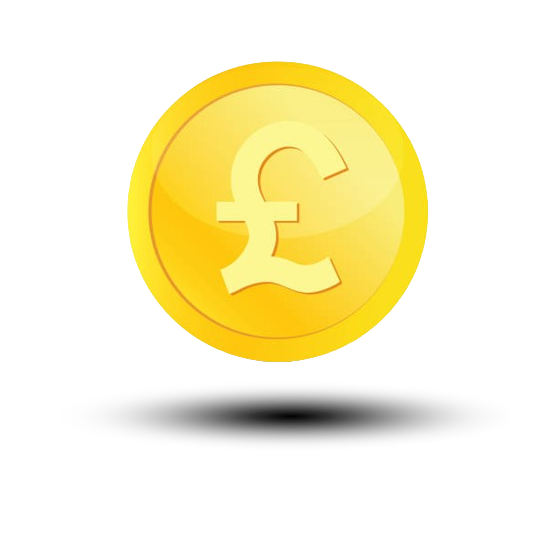
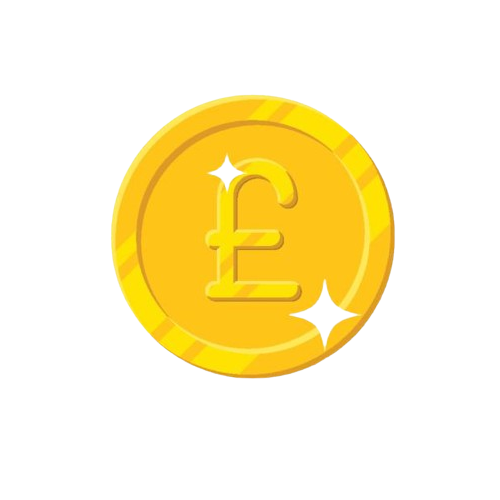
[Ajoute] l'animation sur la pièce

Changed region(s): [[0.21, 0.09, 0.81, 0.81]]

diff --git a/source/gui/HomePage.py b/source/gui/HomePage.py
@@ -18,6 +18,11 @@ class HomePage(Element, Controller):
 
         # Main Page
         self.welcome_message = ""
+        self.coin_angle = 0
+        self.rotation_speed = 2
+
+
+        
 
         # Notification
         self.display_notif = self.notification()
@@ -120,8 +125,31 @@ class HomePage(Element, Controller):
         self.rect_radius_top(self.green3, 630, 175, 700, 45, 5)
 
     def all_accounts(self):
-        self.img_not_center("coins", 90, 160, 90, 90, self.images["coin"])
- 
+
+        pygame.draw.line(self.Window, self.grey3, (315, 280), (605, 280), 1)
+        self.text_not_center(self.font1, 18, "Total Balance", self.grey2, 405, 290)
+        self.text_not_center(self.font1, 18, "Total Balance", self.grey2, 405, 290)
+
+        self.rect_full(self.grey1, 460, 410, 300, 150, 5)
+        self.rect_full(self.grey1, 460, 580, 300, 150, 5)
+
+       
+        # Animation
+
+        rotated_coin = pygame.transform.rotate(self.images["coin"], self.coin_angle)
+        resized_rotated_coin = pygame.transform.scale(rotated_coin, (90, 90))
+        resized_rotated_coin_rect = resized_rotated_coin.get_rect(center=(350, 240))
+
+        self.Window.blit(resized_rotated_coin, resized_rotated_coin_rect)
+     
+        self.coin_angle += self.rotation_speed
+        if self.coin_angle >= 360:
+            self.coin_angle -= 360
+        elif self.coin_angle < 0:
+            self.coin_angle += 360
+
+
+
 
 
 
@@ -131,6 +159,7 @@ class HomePage(Element, Controller):
         self.top_bar()
         self.side_bar()
         self.main_section()
+        self.all_accounts() # A MODIFIER
 
     def saving_checking_design(self):
         self.filter_options()

diff --git a/rect.py b/rect.py
@@ -1,0 +1,49 @@
+import pygame
+import sys
+
+# Initialiser Pygame
+pygame.init()
+
+# Définir la taille de la fenêtre
+width, height = 400, 300
+window = pygame.display.set_mode((width, height))
+pygame.display.set_caption("Rectangle avec effet shadow")
+
+# Définir les couleurs
+GRAY = (200, 200, 200)
+DARK_GRAY = (100, 100, 100)
+
+# Position et taille du rectangle principal
+rect_width, rect_height = 200, 100
+rect_x, rect_y = 100, 100
+
+# Position et taille de l'ombre
+shadow_offset = 2
+
+# Boucle principale
+running = True
+while running:
+    for event in pygame.event.get():
+        if event.type == pygame.QUIT:
+            running = False
+
+    # Effacer l'écran
+    window.fill((255, 255, 255))
+
+    # Dessiner l'ombre
+    shadow_rect = pygame.Rect(rect_x + shadow_offset, rect_y + shadow_offset, rect_width, rect_height)
+    pygame.draw.rect(window, DARK_GRAY, shadow_rect)
+
+    # Dessiner le rectangle principal
+    main_rect = pygame.Rect(rect_x, rect_y, rect_width, rect_height)
+    pygame.draw.rect(window, GRAY, main_rect)
+
+    # Mettre à jour l'affichage
+    pygame.display.flip()
+
+    # Limiter le nombre d'images par seconde
+    pygame.time.Clock().tick(60)
+
+# Quitter Pygame
+pygame.quit()
+sys.exit()

diff --git a/main.py b/main.py
@@ -2,7 +2,7 @@
 #                Projet Budget Buddy             #
 #                   25/03/2024                   #
 #                                                #
-#  Lucas Martinie / Hamza Naya / Vanny Lamorte   #c
+#  Lucas Martinie / Hamza Naya / Vanny Lamorte   #
 ##################################################
 
 from source.View import display

diff --git a/coins.py b/coins.py
@@ -20,7 +20,7 @@ piece_x = (SCREEN_WIDTH - piece_rect.width) // 2
 piece_y = (SCREEN_HEIGHT - piece_rect.height) // 2
 
 # Vitesse de rotation de la pièce (en degrés par frame)
-rotation_speed = 2
+    rotation_speed = 2
 
 # Boucle principale
 clock = pygame.time.Clock()
